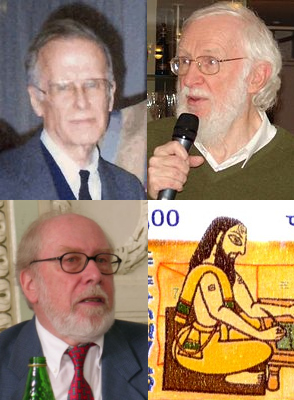
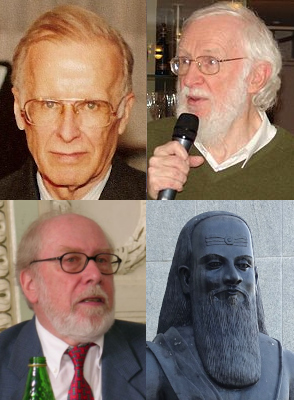
update 2020

diff --git a/Vorlesungen/lecture-03.tex b/Vorlesungen/lecture-03.tex
@@ -1,5 +1,5 @@
-\documentclass[onlymath]{beamer}
-% \documentclass[onlymath,handout]{beamer}
+\documentclass[aspectratio=1610,onlymath]{beamer}
+% \documentclass[aspectratio=1610,onlymath,handout]{beamer}
 
 \input{macros-lecture}
 \input{../macros}
@@ -39,7 +39,7 @@ Eine "`ASCII-Syntax"' für Typ-2-Grammatiken\\ ist die sogenannte \redalert{Back
       und {\alert{$\texttt{<}$}Nichterminalsymbole\alert{$\texttt{>}$}}
 \end{itemize}
 
-\ghost{\hspace{7.2cm}\includegraphics[width=3.5cm]{images/BNF-Autoren} ~\rotatebox{90}{{\tiny{oben: John Backus, Peter Naur}}} \rotatebox{90}{{\tiny{unten: Nicklas Wirth, Panini}}}}%
+\ghost{\hspace{9.2cm}\includegraphics[width=3.5cm]{images/BNF-Autoren} ~\rotatebox{90}{{\tiny{oben: John Backus, Peter Naur}}} \rotatebox{90}{{\tiny{unten: Nicklas Wirth, Panini}}}}%
 \pause\redalert{Erweiterte BNF} (EBNF, von Nicklas Wirth):
 \begin{itemize}
 \item allgemein wie BNF, aber Konkatenation mit Kommas
@@ -812,7 +812,20 @@ Offene Fragen:
 }
 
 \end{frame}
-% 
+
+
+
+\begin{frame}\frametitle{Bildrechte}
+
+Folie 4:\\
+\begin{itemize}
+\item Portrait John Backus: Wikipedia-Nutzer \emph{PIerre.Lescanne}, CC-By-SA 4.0
+\item Portrait Peter Naur: Wikipedia-Nutzer \emph{Eriktj}, CC-By-SA 3.0
+\item Portrait Nicklaus Wirth: Wikipedia-Nutzer  \emph{Tyomitch}, used with permission of copyright holder
+\item Foto Büste Panini: Wikipedia-Nutzer \emph{Jameela P.}, CC-By-SA 4.0
+\end{itemize}
+
+\end{frame}% 
 % \begin{frame}
 % \narrowcentering{\includegraphics[width=5.9cm]{a2}}
 % \end{frame}

diff --git a/Vorlesungen/macros-lecture.tex b/Vorlesungen/macros-lecture.tex
@@ -5,6 +5,7 @@
 % \usetheme[ddcfooter,nosectionnum]{tud}
 \usetheme[nosectionnum,pagenum,noheader]{tud}
 % \usetheme[nosectionnum,pagenum]{tud}
+\setbeamertemplate{enumerate items}[default]
 
 % Increase body font size to a sane level:
 \let\origframetitle\frametitle
